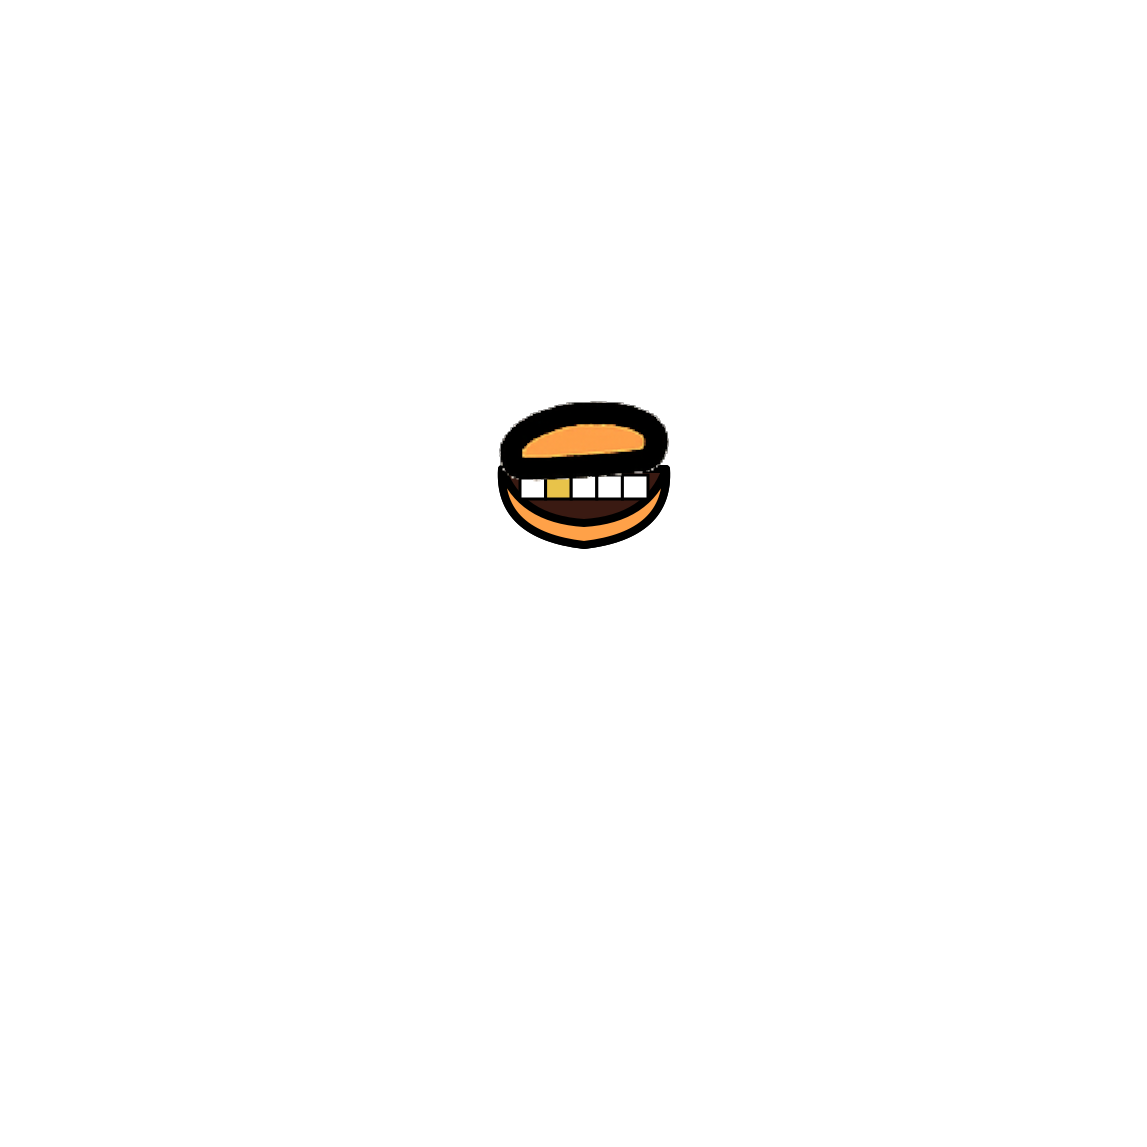
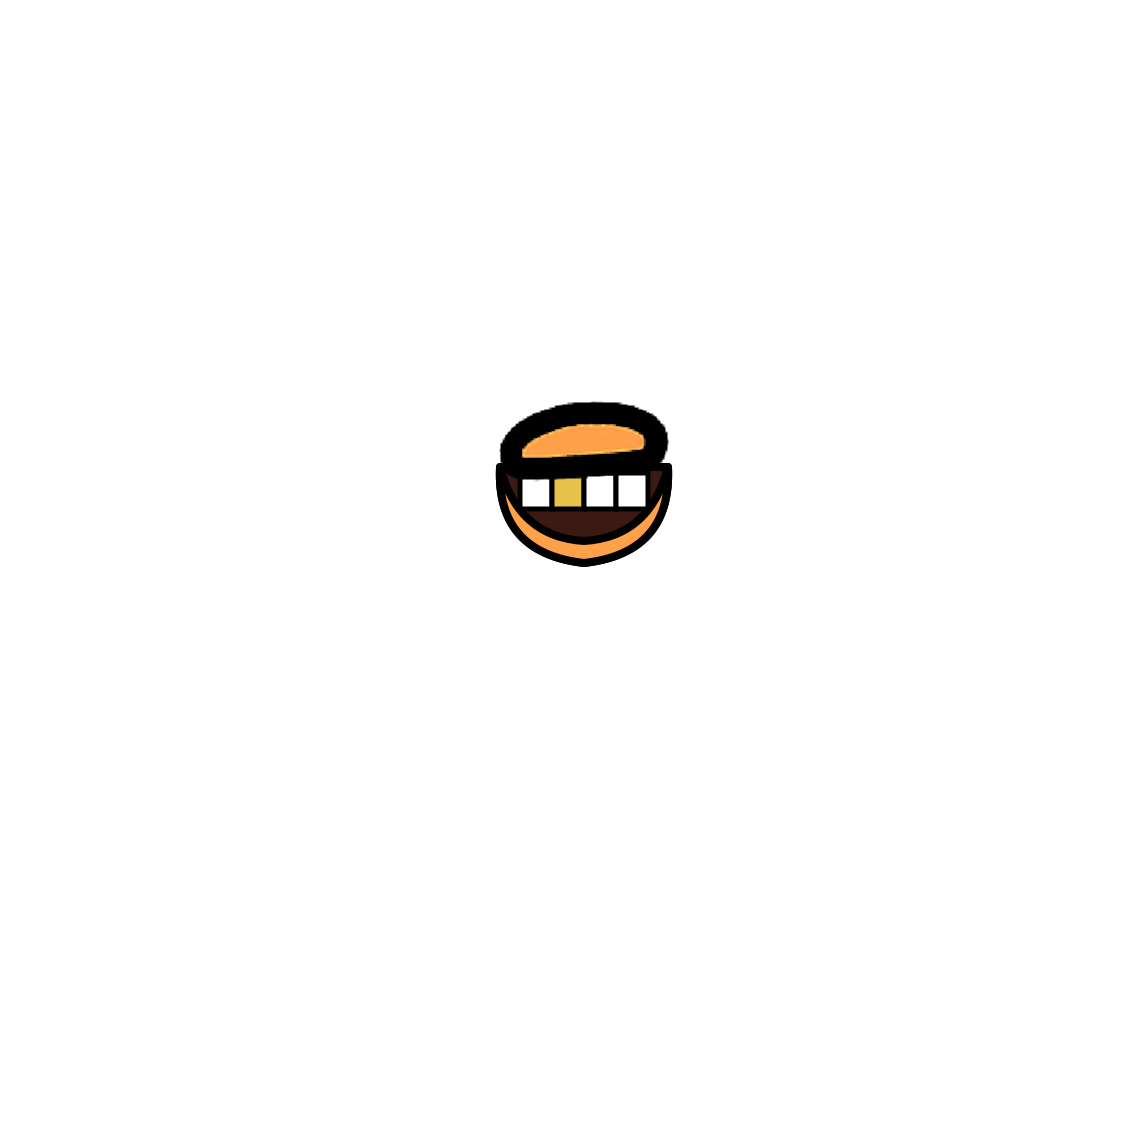
Fix the traits that don't hold up in the builder, drop a missed swastika tee
Every one of the 239 traits was captured from the real builder canvas
(599px), tiled into labelled sheets and reviewed, plus a pixel diff
against the bare base. Fixes, each re-captured from the builder, checked
at 512 beside same-category originals, and rendered through wrangler:

- gap-tooth: the 5-tooth row with a dark gap slot was ~8px tall in the
  builder and the gap vanished into the dark interior. Now two big front
  teeth under the closed real beak.
- gold-tooth, open-laugh: fewer, taller teeth (36px, was 24px).
- smirk: skewed lower mandible pinched to a crossing sliver; own path now.
- all beak-based mouths: the flood-filled beak kept its outline's grey
  anti-alias fringe, a light dotted seam over open-mouth interiors. Fringe
  is re-expressed as black at matching coverage.
- umbrella: bat-wing canopy redrawn as a domed, scalloped umbrella.
- fishing-rod: pointed across the chest; now points up and away.
- wizard-hat: tip ran off the canvas top.
- rocket: hovered ~140px above the accessories' ground line.
- fan-of-the-painter-tee removed: a swastika shirt the hate-symbol pass
  missed behind the euphemism. Library and copy are now 238.

skull-tattoo looked blank in the audit but the art is fine: the capture
snippet used a fixed wait while the builder loads traits asynchronously.
It now waits for the canvas to change, and the receiver port is
configurable.

Changed region(s): [[0.4272, 0.3967, 0.5798, 0.5187]]

diff --git a/index.html b/index.html
@@ -25,7 +25,7 @@
 
   <title>PING</title>
   <meta name="description"
-    content="Build a PING character from 239 traits. An open image API, a trait editor, and a token on Robinhood Chain." />
+    content="Build a PING character from 238 traits. An open image API, a trait editor, and a token on Robinhood Chain." />
   <link rel="canonical" href="https://buildaping.com/" />
 
   <!-- These are the only tags in the project carrying a hardcoded host.
@@ -41,7 +41,7 @@
   <meta property="og:url" content="https://buildaping.com/" />
   <meta property="og:title" content="PING" />
   <meta property="og:description"
-    content="Build a PING character from 239 traits. An open image API, a trait editor, and a token on Robinhood Chain." />
+    content="Build a PING character from 238 traits. An open image API, a trait editor, and a token on Robinhood Chain." />
   <meta property="og:image" content="https://buildaping.com/opengraph-ping.png" />
   <meta property="og:image:width" content="1200" />
   <meta property="og:image:height" content="630" />
@@ -50,7 +50,7 @@
   <meta name="twitter:card" content="summary_large_image" />
   <meta name="twitter:title" content="PING" />
   <meta name="twitter:description"
-    content="Build a PING character from 239 traits. An open image API, a trait editor, and a token on Robinhood Chain." />
+    content="Build a PING character from 238 traits. An open image API, a trait editor, and a token on Robinhood Chain." />
   <meta name="twitter:image" content="https://buildaping.com/opengraph-ping.png" />
   <meta name="twitter:image:alt" content="A PING character in a cowboy hat and sunglasses, holding a bitcoin." />
 </head>

diff --git a/src/utils/constants.ts b/src/utils/constants.ts
@@ -59,7 +59,7 @@ export const ROADMAP_STEPS: RoadmapStep[] = [
     id: "phase-1",
     title: "Character generator",
     description:
-      "239 traits across eight slots, a browser trait editor, and an open image API that renders any combination on demand. All shipped and in use.",
+      "238 traits across eight slots, a browser trait editor, and an open image API that renders any combination on demand. All shipped and in use.",
     status: "completed" as const,
   },
   {

diff --git a/functions/api/og/banner.png.tsx b/functions/api/og/banner.png.tsx
@@ -87,7 +87,7 @@ export const onRequestGet: APIRoute = async ({ request }) => {
               $PING
             </div>
             <div style={{ fontSize: 34, color: OG_THEME.ink, opacity: 0.75, marginTop: 14 }}>
-              239 traits, eight slots.
+              238 traits, eight slots.
             </div>
             <div style={{ fontSize: 34, color: OG_THEME.ink, opacity: 0.75 }}>
               An open image API.

diff --git a/src/pages/Home.tsx b/src/pages/Home.tsx
@@ -19,7 +19,7 @@ import {
  * build if this drifts from public/traits - it sat at 176 for a while after
  * the library reached 239.
  */
-const TRAIT_COUNT = 239;
+const TRAIT_COUNT = 238;
 const TRAIT_SLOTS = 8;
 
 /**

diff --git a/docs/HANDOFF.md b/docs/HANDOFF.md
@@ -1,7 +1,7 @@
 # PING / buildaping.com — handoff
 
-Updated 2026-09-11 (see "Session 2026-09-10/11" at the bottom for the
-latest state and the in-progress task). Originally written 2026-09-10, end of a session that took the trait library from 176 to
+Updated 2026-09-11 (see "Builder audit, 2026-09-11" at the bottom for the
+latest state). Originally written 2026-09-10, end of a session that took the trait library from 176 to
 239 and touched the palette, favicon, token image, domain, and deploy
 pipeline. Everything below is the actual current state, verified, not a
 summary of intentions.
@@ -36,7 +36,8 @@ with Pages Functions for server-rendered share images.
   submission.
 - **Trait library**: cleaned of 12 hate-symbol/explicit assets (see commit
   `032ab7b` for the exact list — Nazi-era imagery, slurs, a real photo of a
-  named terrorist, explicit content), then grown from 164 to **239 traits**
+  named terrorist, explicit content), then grown from 164 to 239 traits (238 after the builder audit removed one
+more hate-symbol asset)
   across all 8 categories by hand-authored SVG, not an image model. See
   `docs/trait-style-guide.md`, `docs/trait-generation-plan.md`.
 - **The image-API empty-body bug is fixed** (see "What's actually still
@@ -203,35 +204,56 @@ accessories (grown 1.45x, cart basket filled). Copy now says 239 everywhere
 and `scripts/check-copy-count.mjs` fails the build on drift. New scripts:
 `check-eye-clearance.mjs`, `rescale-trait.mjs`, `contact-sheet.mjs`.
 
-**In progress, not finished: the owner rejected gap-tooth as rendered by
-the BUILDER** (the browser canvas, not the image API) and asked for every
-single trait to be enabled in the real site, checked, and fixed where
-needed. Status:
-
-- The builder's geometry matches the API (base at 1.4x, centered; see
-  `BASE_IMAGE_SCALE_MULTIPLIER` in `src/components/CharacterPreview.tsx`),
-  so registration is the same. The difference the owner is seeing is
-  most likely the smaller canvas (599px vs the API's 512 with different
-  resampling) and/or that the open-beak lower mandible reads thin at that
-  size - NOT confirmed yet; nothing has been looked at closely.
-- All 239 traits were captured from the real builder canvas
-  (`npm run dev`, clicking each card, `canvas.toDataURL`) into
-  `.trait-audit/<name>.png` (gitignored, present in the working tree at
-  the time of writing). Tooling and the browser snippet are in
-  `scripts/capture-builder-receiver.mjs`.
-- **Nothing in `.trait-audit/` has been reviewed yet.** The session was
-  stopped at the tiling step. Next step: tile them ~20 per sheet with
-  labels (sharp one-liner, or extend contact-sheet.mjs to accept
-  pre-composited inputs), go through all 12 sheets, list every trait that
-  looks wrong in the builder, fix, re-capture those, re-check, commit.
-- Expect the review to be about builder-scale legibility, not
-  registration: the same 512px sheets already passed for registration.
-  Judge the mouths hardest; gap-tooth is the one already rejected.
-- If the mouths need another pass, the lower-mandible rim (22px in
-  `openBeak`, `scripts/generate-mouths-from-beak.mjs`) and the tooth row
-  height (24px) are the knobs; both were sized for the 512 API render.
+The owner then rejected gap-tooth as rendered by the BUILDER and asked for
+every trait to be checked in the real site. That audit is done; see the
+next section.
 
 Environment notes: `.claude/launch.json` has `ping-dev` (vite, 5173) and
 `ping-pages` (wrangler on 8790 - a stale workerd from an older session
 still holds 8788). Capturing from a hidden browser tab crawls; keep it
 fronted.
+
+## Builder audit, 2026-09-11: done
+
+All 239 traits were captured from the real builder canvas (599px, 1600px
+window) into `.trait-audit/`. They were tiled 20 per labelled sheet, and all
+12 sheets were reviewed. Each capture was also pixel-diffed against the
+bare base to catch traits that draw nothing. Every fix was re-captured from
+the builder, re-checked, contact-sheeted at 512 next to originals of the
+same category, and rendered once through `wrangler pages dev`.
+
+Fixed:
+
+- **gap-tooth** (the rejected one): a 5-tooth row with one dark slot is
+  ~8px tall at 599px and the slot vanished into the dark interior. It is now
+  two big front teeth under the closed real beak, with a gap.
+- **gold-tooth, open-laugh**: fewer, taller teeth (36px, from 24px).
+- **smirk**: the lower mandible pinched to a crossing sliver on the short
+  side. It now has its own tapered path.
+- **every beak-based mouth**: a light dotted seam showed under the beak on
+  open mouths. The flood-filled beak kept its outline's anti-aliased grey
+  fringe. That fringe is now black at matching coverage, which looks
+  identical over cream and dark over the interior.
+- **umbrella**: the canopy was a bat-wing shape. It is now a domed,
+  scalloped canopy with a J handle.
+- **fishing-rod**: it pointed across the chest with the fish on the belly.
+  It now points up and away, and the fish hangs in open space.
+- **wizard-hat**: the tip ran off the canvas top. The cone is shorter.
+- **rocket**: it floated ~140px above the ground line. It is now lowered to
+  stand where the other accessories stand.
+- **fan-of-the-painter-tee** removed: a swastika on red, named for Hitler.
+  The 2026-09-09 hate-symbol pass missed it behind the euphemism. The count
+  is now 238, and the six copy sites are updated.
+
+Not a defect: `skull-tattoo` captured as the bare base. The old capture
+snippet waited a fixed 500ms and the builder loads trait images
+asynchronously. The art is fine. The snippet in
+`scripts/capture-builder-receiver.mjs` now waits until the canvas differs
+from the bare base. A stray `receiver.mjs` from an older session was
+holding port 9911 and writing elsewhere, so the receiver now takes `PORT`.
+
+Looked at and left alone, as original art rather than a defect: angry
+brows extending past the head, wand's white glow, sayian hair over one
+eye, and the hello-kitty keychain's small size. Two left-side traits,
+such as umbrella plus rocket, overlap when both are picked. That is
+inherent to both slots living on the left.

diff --git a/docs/trait-style-guide.md b/docs/trait-style-guide.md
@@ -100,6 +100,12 @@ render. Two consequences, both learned by shipping it wrong:
 - Nothing drawn inside the beak's own silhouette survives the render. A
   tooth row, a smile line or a tongue that fits inside 53x14px is a smudge on
   the live site. Make the added shape at least the beak's own size.
+- Size for the builder, not just the API. The builder canvas is 599px with
+  the base at 1.4x, so a trait's 1147px master shrinks to ~52%. Teeth under
+  ~30px tall in the master, or a detail that relies on dark-on-dark contrast
+  (a missing tooth in a dark mouth), don't read there. Check with a capture
+  from the real builder (`scripts/capture-builder-receiver.mjs`), not only a
+  512 contact sheet.
 
 Held objects (cigar, joint, lollipop, whistle) go in the beak's corner and
 were always fine.
